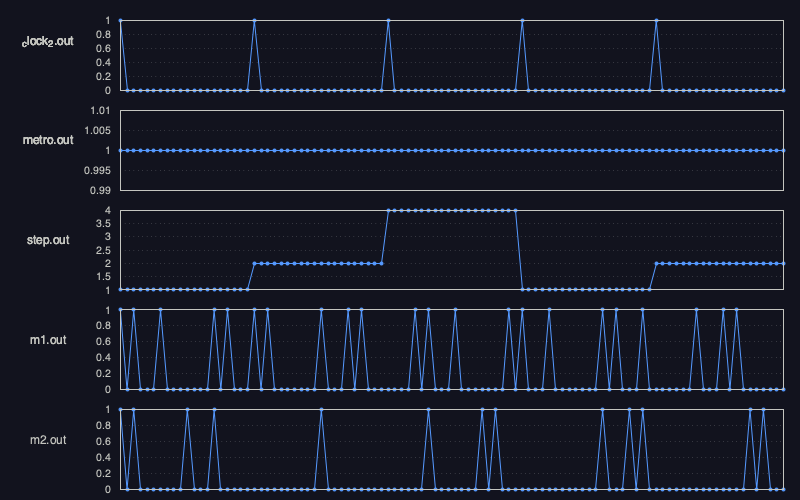
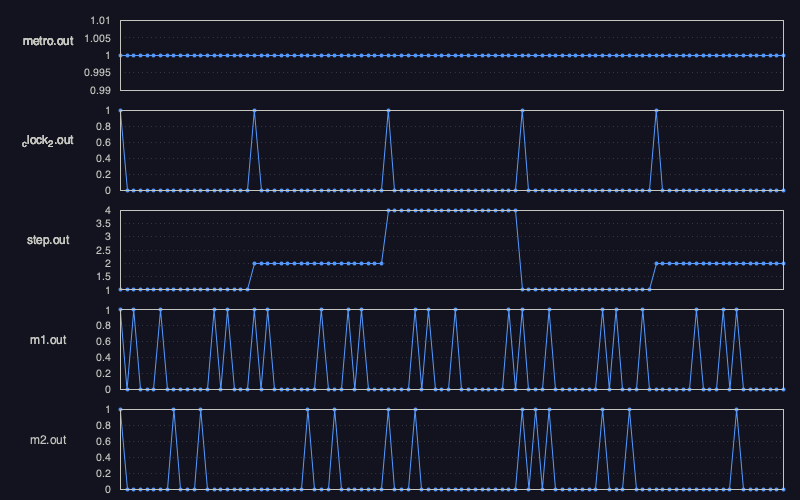
updated images

diff --git a/src/graph_facade.rs b/src/graph_facade.rs
@@ -308,9 +308,22 @@ pub fn build_markdown_index(
             )?;
 
             entries.push(format!("## {title}"));
-            entries.push("```json".to_string());
-            entries.push(json_str.clone()); // clone because used in formatting
-            entries.push("```".to_string());
+            if let Some(ref chain) = parsed.chain {
+                entries.push("```text".to_string());
+                for (i, segment) in chain.split('|').enumerate() {
+                    let segment = segment.trim();
+                    if i == 0 {
+                        entries.push(format!("{segment}"));
+                    } else {
+                        entries.push(format!("| {segment}"));
+                    }
+                }
+                entries.push("```".to_string());
+            } else {
+                entries.push("```json".to_string());
+                entries.push(json_str.clone());
+                entries.push("```".to_string());
+            }
             entries.push(format!("![{label}]({fn_graph})"));
             entries.push(format!("![{label}]({fn_time_domain})"));
             entries.push("".to_string()); // blank line for spacing